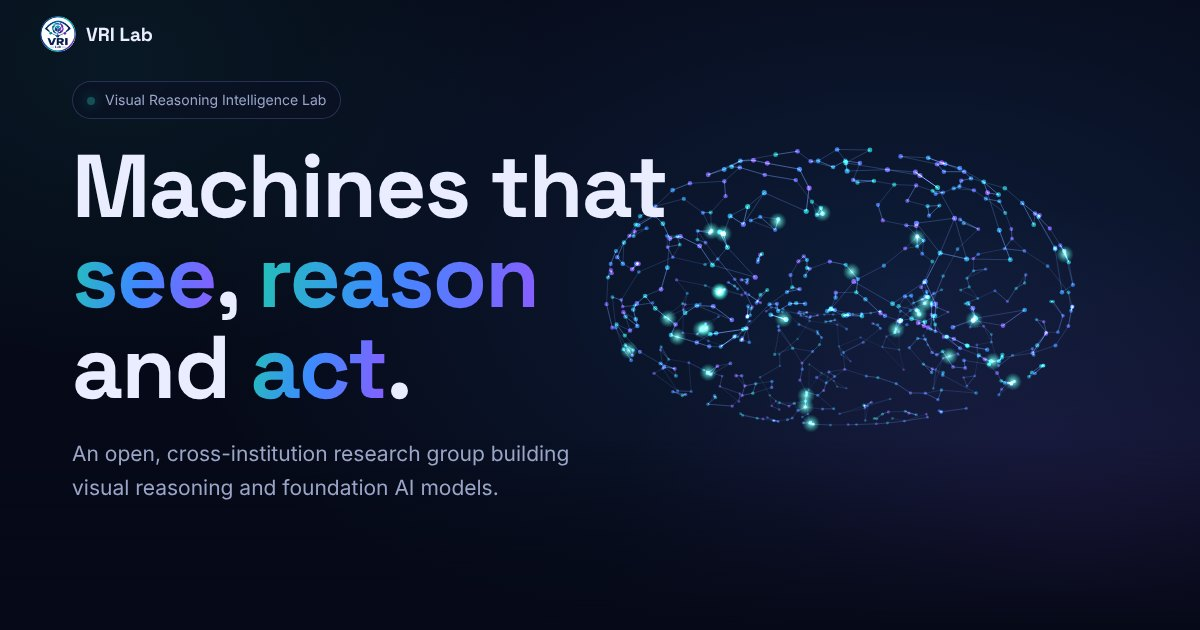
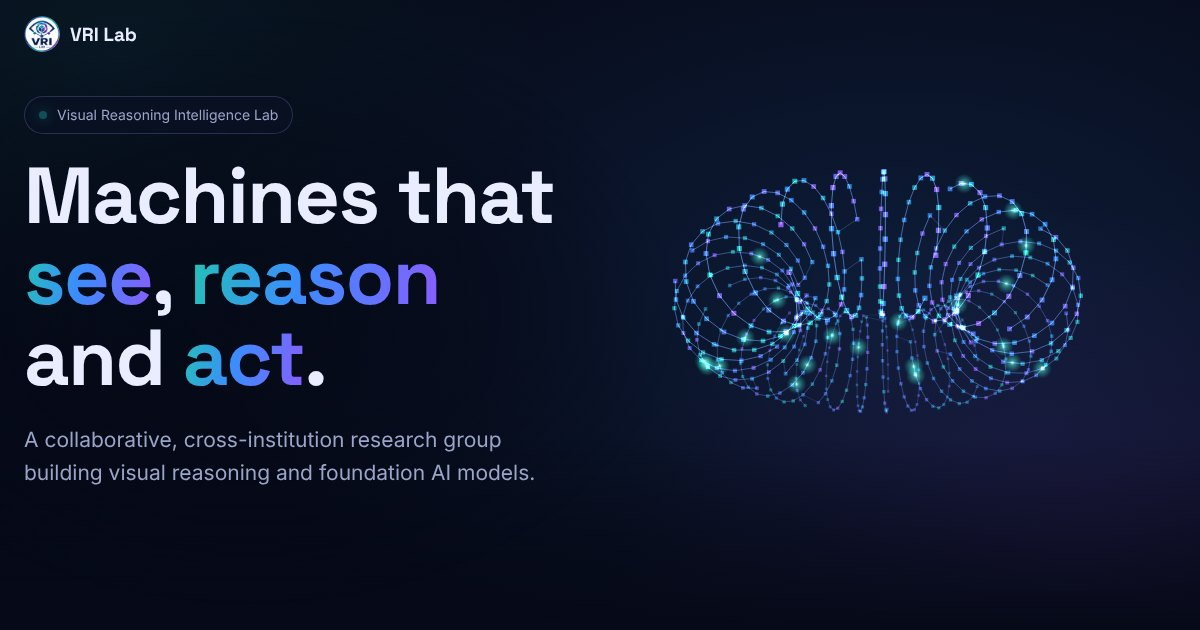
Round 2 fixes: Ali Cheraghian photo, ATLAS/DTO-KD links, seamless torus, carousel fades, tile frame cap, short-phone hero, footer and type polish
Claude-Session: https://claude.ai/code/session_01ChuKEdnKJh8QJsEAQvGBw2

diff --git a/assets/css/style.css b/assets/css/style.css
@@ -91,7 +91,7 @@ h1, h2, h3 { font-family: var(--display); letter-spacing: -0.02em; margin: 0; }
 
 /* ---------------- Hero ---------------- */
 .hero {
-  position: relative; min-height: 100vh; min-height: 100svh;
+  position: relative; min-height: 92vh; min-height: 92svh;
   display: flex; align-items: center;
   padding: 120px var(--gutter) 80px;
   overflow: hidden; isolation: isolate;
@@ -124,8 +124,8 @@ h1, h2, h3 { font-family: var(--display); letter-spacing: -0.02em; margin: 0; }
 .hero-cta { display: flex; flex-wrap: wrap; gap: 12px; }
 .hero-cta.center { justify-content: center; }
 .shape-label {
-  margin: 40px 0 0; font: 500 12px/1 ui-monospace, SFMono-Regular, Menlo, monospace;
-  letter-spacing: .14em; text-transform: uppercase; color: rgba(154,165,200,.6);
+  margin: 40px 0 0; font: 500 12px/1 var(--font);
+  letter-spacing: .14em; text-transform: uppercase; color: rgba(154,165,200,.85);
 }
 .scroll-cue {
   position: absolute; left: 50%; bottom: 28px; transform: translateX(-50%);
@@ -178,7 +178,7 @@ h1, h2, h3 { font-family: var(--display); letter-spacing: -0.02em; margin: 0; }
   background: linear-gradient(to top, rgba(6,10,24,.96) 0%, rgba(6,10,24,.7) 34%, transparent 58%);
 }
 .topic-body { position: absolute; left: 0; right: 0; bottom: 0; padding: 20px 24px 22px; }
-.topic-num { font: 600 13px ui-monospace, Menlo, monospace; letter-spacing: .1em; color: var(--c, var(--teal)); }
+.topic-num { font: 600 12.5px var(--font); letter-spacing: .16em; font-variant-numeric: tabular-nums; color: var(--c, var(--teal)); }
 .topic h3 { font-size: clamp(20px, 1.9vw, 25px); line-height: 1.15; margin: 4px 0 6px; font-weight: 600; }
 .topic:nth-child(1) h3 { font-size: clamp(28px, 3.4vw, 44px); }
 .topic p { margin: 0; color: var(--muted); font-size: 14.5px; max-width: 460px; line-height: 1.45; }
@@ -220,7 +220,7 @@ h1, h2, h3 { font-family: var(--display); letter-spacing: -0.02em; margin: 0; }
 .person .role { margin: 4px 0 0; color: var(--text); font-size: 15px; }
 .person .org { margin: 2px 0 14px; color: var(--muted); font-size: 15px; }
 .person .focus {
-  display: inline-block; font-size: 13px; padding: 5px 11px; border-radius: 999px;
+  display: inline-block; font-size: 13px; padding: 5px 11px; border-radius: 12px;
   background: rgba(34,195,181,.1); color: #7fe6dc; border: 1px solid rgba(34,195,181,.25);
 }
 .person .links { display: flex; gap: 8px; margin-top: 18px; position: relative; }
@@ -244,10 +244,12 @@ h1, h2, h3 { font-family: var(--display); letter-spacing: -0.02em; margin: 0; }
   display: grid; grid-auto-flow: column; grid-auto-columns: minmax(300px, 380px); gap: 18px;
   overflow-x: auto; scroll-snap-type: x mandatory; padding: 4px 0 24px;
   scrollbar-width: thin; scrollbar-color: var(--line-2) transparent;
-  -webkit-mask-image: linear-gradient(90deg, #000 88%, transparent);
-  mask-image: linear-gradient(90deg, #000 88%, transparent);
+  -webkit-mask-image: linear-gradient(90deg, transparent, #000 6%, #000 90%, transparent);
+  mask-image: linear-gradient(90deg, transparent, #000 6%, #000 90%, transparent);
 }
-.work.at-end { -webkit-mask-image: none; mask-image: none; }
+.work.at-start { -webkit-mask-image: linear-gradient(90deg, #000 90%, transparent); mask-image: linear-gradient(90deg, #000 90%, transparent); }
+.work.at-end { -webkit-mask-image: linear-gradient(90deg, transparent, #000 6%); mask-image: linear-gradient(90deg, transparent, #000 6%); }
+.work.at-start.at-end { -webkit-mask-image: none; mask-image: none; }
 .round:disabled { opacity: .35; cursor: default; }
 .round:disabled:hover { background: transparent; }
 .paper {
@@ -271,8 +273,8 @@ h1, h2, h3 { font-family: var(--display); letter-spacing: -0.02em; margin: 0; }
   border: 1px solid rgba(255,255,255,.14);
 }
 .paper .body { padding: 18px 20px 20px; display: flex; flex-direction: column; gap: 10px; flex: 1; }
-.paper .venue { font: 600 12.5px var(--font); letter-spacing: .08em; text-transform: uppercase; color: var(--teal); }
-.paper h3 { font: 600 17px/1.35 var(--font); letter-spacing: 0; margin-top: -4px; }
+.paper .venue { white-space: nowrap; overflow: hidden; text-overflow: ellipsis; font: 600 12.5px var(--font); letter-spacing: .08em; text-transform: uppercase; color: var(--teal); }
+.paper h3 { font: 600 17px/1.35 var(--font); letter-spacing: 0; margin-top: -4px; display: -webkit-box; -webkit-line-clamp: 3; -webkit-box-orient: vertical; overflow: hidden; }
 .paper .authors { font-size: 13.5px; color: var(--muted); margin: 0; }
 .paper .authors b { color: var(--text); font-weight: 600; }
 .paper .plinks { display: flex; flex-wrap: wrap; gap: 8px; margin-top: auto; padding-top: 6px; }
@@ -402,7 +404,8 @@ h1, h2, h3 { font-family: var(--display); letter-spacing: -0.02em; margin: 0; }
   .work { grid-auto-columns: 84%; }
   .scroller-btns { display: none; }
   .join { width: calc(100% - 24px); border-radius: 24px; }
-  .footer { justify-content: center; text-align: center; }
+  .footer { justify-content: center; text-align: center; flex-direction: column; }
+  .footer div, .foot-links { justify-content: center; }
 }
 @media (prefers-reduced-motion: reduce) {
   html { scroll-behavior: auto; }

diff --git a/assets/js/main.js b/assets/js/main.js
@@ -164,6 +164,7 @@
       $("#workPrev").disabled = track.scrollLeft <= 4;
       $("#workNext").disabled = track.scrollLeft >= max;
       track.classList.toggle("at-end", track.scrollLeft >= max);
+      track.classList.toggle("at-start", track.scrollLeft <= 4);
     };
     track.addEventListener("scroll", upd, { passive: true }); window.addEventListener("resize", upd); upd();
   }
@@ -318,12 +319,13 @@
       return p;
     }
     function torus() {
-      var nu = Math.round(Math.sqrt(N * 1.6)), nv = Math.ceil(N / nu), p = [];
-      for (var i = 0; i < nu; i++) for (var j = 0; j < nv; j++) {
-        var u = (i / nu) * Math.PI * 2, v = (j / nv) * Math.PI * 2 + (i % 2) * Math.PI / nv, Rr = 0.95, rr = 0.4;
+      // one continuous helix wound around the torus: even coverage, no seam
+      var p = [], wind = small ? 17 : 23, Rr = 0.95, rr = 0.4;
+      for (var k = 0; k < N; k++) {
+        var u = (k / N) * Math.PI * 2, v = (k / N) * Math.PI * 2 * wind;
         p.push([(Rr + rr * Math.cos(v)) * Math.cos(u), rr * Math.sin(v), (Rr + rr * Math.cos(v)) * Math.sin(u)]);
       }
-      return fit(p);
+      return p;
     }
     function trefoil() {
       var ring = 5, nt = Math.ceil(N / ring), p = [];
@@ -382,9 +384,14 @@
       layout.narrow = narrow;
       if (narrow) {
         // sit in the space between the nav and the headline block
-        var top = inner ? inner.offsetTop : H * 0.5, avail = top - 72;
-        layout.scale = Math.max(48, Math.min(W * 0.26, avail / 3.1));
-        layout.ox = W * 0.5; layout.oy = 72 + Math.max(avail, 150) / 2;
+        var eb = inner && inner.querySelector(".eyebrow");
+        var top = inner ? inner.offsetTop + (eb ? eb.offsetTop : 0) : H * 0.5, avail = top - 72;
+        if (avail < 90) {
+          // short phones: no room above the text, so show it faintly behind instead
+          layout.scale = W * 0.28; layout.ox = W * 0.62; layout.oy = H * 0.36; cv.style.opacity = "0.32";
+        } else {
+          layout.scale = Math.min(W * 0.26, avail / 3.1); layout.ox = W * 0.5; layout.oy = 72 + avail / 2; cv.style.opacity = "";
+        }
       } else {
         var textRight = inner ? inner.getBoundingClientRect().right : W * 0.45;
         var room = W - textRight - 40;
@@ -471,12 +478,12 @@
       var hz = H * 0.3;
       for (var i = -14; i <= 14; i++) { ctx.beginPath(); ctx.moveTo(W / 2 + i * u * 2.2, hz); ctx.lineTo(W / 2 + i * W * 0.14, H); ctx.stroke(); }
       for (var j = 0; j < 14; j++) { var yy = hz + Math.pow(((j + (t * 0.6) % 1) / 14), 2) * (H - hz); ctx.beginPath(); ctx.moveTo(0, yy); ctx.lineTo(W, yy); ctx.stroke(); }
-      var path = function (s) { return [W * 0.4 + Math.sin(s * 0.9) * W * 0.24 + Math.sin(s * 2.1) * W * 0.05, H * 0.7 + Math.cos(s * 0.7) * H * 0.12]; };
+      var path = function (s) { return [W * 0.48 + Math.sin(s * 0.9) * W * 0.19 + Math.sin(s * 2.1) * W * 0.04, H * 0.56 + Math.cos(s * 0.7) * H * 0.12]; };
       ctx.lineWidth = Math.max(2, u * 0.45); ctx.lineCap = "round";
       for (var k = 0; k < 40; k++) { var p0 = path(t - k * 0.04), p1 = path(t - (k + 1) * 0.04); ctx.strokeStyle = "rgba(34,195,181," + (0.9 - k / 44) + ")"; ctx.beginPath(); ctx.moveTo(p0[0], p0[1]); ctx.lineTo(p1[0], p1[1]); ctx.stroke(); }
       var cur = path(t), dir = path(t + 0.05);
       var ang = Math.atan2(dir[1] - cur[1], dir[0] - cur[0]);
-      var stepLen = Math.min(u * 2.2, H * 0.045);
+      var stepLen = Math.min(u * 2.2, H * 0.045, Math.min(W, H) * 0.015);
       for (var r = 0; r < 7; r++) {
         var a = ang + (r - 3) * 0.26, x = cur[0], y = cur[1];
         ctx.setLineDash([u * 0.7, u]); ctx.lineWidth = Math.max(1.4, u * 0.22);
@@ -551,7 +558,7 @@
     mllm: function (ctx, W, H, t) {
       ctx.fillStyle = "#0b1230"; ctx.fillRect(0, 0, W, H);
       var n = 4, cell = H * 0.1, gx = W * 0.06, gy = H * 0.08;
-      var tok = Math.max(10, H * 0.085), seqX0 = W * 0.06, seqY = H * 0.62;
+      var tok = Math.max(17, H * 0.085), seqX0 = W * 0.06, seqY = H * 0.6;
       var cycle = (t * 0.3) % 1.25;
       var lx = W * 0.66, ly = H * 0.08, lw = W * 0.28, lh = H * 0.36;
       var tokPos = [];
@@ -568,7 +575,7 @@
       ctx.globalAlpha = 1;
       // text tokens after the image tokens
       var words = ["what", "is", "it", "doing", "?"];
-      ctx.font = "600 " + Math.round(tok * 0.62) + "px Inter, sans-serif";
+      ctx.font = "600 " + Math.max(10, Math.round(tok * 0.6)) + "px Inter, sans-serif";
       var wx = seqX0 + 8 * (tok + 3) + 8, wy = seqY;
       for (var w = 0; w < words.length; w++) {
         var ww = ctx.measureText(words[w]).width + 10;
@@ -669,7 +676,7 @@
         ctx.save(); ctx.beginPath(); ctx.rect(0, 0, s.w, bh); ctx.clip();
         fn(ctx, s.w, bh, t, cv.dataset.color);
         ctx.restore();
-      }, { still: 4.5 });
+      }, { still: 4.5, fps: 30 });
     });
   }
 

diff --git a/assets/js/data.js b/assets/js/data.js
@@ -92,7 +92,7 @@ window.VRI = {
       org: "Macquarie University",
       place: "Australia",
       focus: "World models · Vision-language models",
-      photo: null,
+      photo: "assets/img/people/ali-cheraghian.jpg",
       links: {
         scholar: "https://scholar.google.com/citations?user=QT0EXIkAAAAJ",
         web: "https://alichr.github.io",
@@ -155,7 +155,7 @@ window.VRI = {
       authors: "H. Dastmalchi, A. Cheraghian, A. An, A. Khamis, L. Petersson",
       img: null,
       seed: 2,
-      links: { page: "https://alichr.github.io" }
+      links: { arXiv: "https://arxiv.org/abs/2610.24783" }
     },
     {
       title: "Topology-Aware Optimal Transport for Source-Free Test-Time Adaptation in Anomaly Segmentation",
@@ -172,7 +172,7 @@ window.VRI = {
       authors: "Z. Hayder, A. Cheraghian, L. Petersson, M. Harandi, R. Hartley",
       img: null,
       seed: 7,
-      links: { page: "https://alichr.github.io" }
+      links: { paper: "https://openreview.net/forum?id=QMItTyQW92" }
     },
     {
       title: "Learning Structurally Consistent Representations for Multi-view Radar Semantic Segmentation",
@@ -220,7 +220,7 @@ window.VRI = {
     {
       title: "Topological Deep Learning: A Review of an Emerging Paradigm",
       short: "TDL Review",
-      venue: "Artificial Intelligence Review 2024",
+      venue: "AI Review 2024",
       authors: "A. Zia, A. Khamis, J. Nichols, U. B. Tayab, Z. Hayder, V. Rolland, E. Stone, L. Petersson",
       img: "assets/img/work/tdl-review.webp",
       links: { paper: "https://link.springer.com/article/10.1007/s10462-024-10710-9", arXiv: "https://arxiv.org/abs/2302.03836" }
@@ -262,7 +262,7 @@ window.VRI = {
   news: [
     { tag: "Nov 2026", text: "VRI Lab launches, bringing together researchers from five institutions in Australia, Bangladesh and Canada." },
     { tag: "WACV 2027", text: "ATLAS accepted, with four VRI members as co-authors." },
-    { tag: "NeurIPS 2026", text: "TopoOT accepted: topology-aware optimal transport for test-time anomaly segmentation." },
+    { tag: "NeurIPS 2026", text: "TopoOT accepted: topology-aware optimal transport for source-free test-time adaptation in anomaly segmentation." },
     { tag: "ICLR 2026", text: "DTO-KD selected for an oral presentation." }
   ],
 

diff --git a/index.html b/index.html
@@ -115,6 +115,15 @@
         </ul>
         <h2>Research topics 2027</h2>
         <p>World models · Language world action models · Multimodal large language models · Unified large language models · Foundation AI models</p>
+        <h2>Selected work</h2>
+        <ul>
+          <li><a href="https://arxiv.org/abs/2610.24783">ATLAS: Learning to Adapt LVLM Attention for Reasoning Video Segmentation</a> (WACV 2027)</li>
+          <li><a href="https://arxiv.org/abs/2601.20333">Topology-Aware Optimal Transport for Source-Free Test-Time Adaptation in Anomaly Segmentation</a> (NeurIPS 2026)</li>
+          <li><a href="https://openreview.net/forum?id=QMItTyQW92">DTO-KD: Dynamic Trade-off Optimization for Effective Knowledge Distillation</a> (ICLR 2026, Oral)</li>
+          <li><a href="https://arxiv.org/abs/2603.10470">Fighting Hallucinations with Counterfactuals</a> (CVPR 2026)</li>
+          <li><a href="https://arxiv.org/abs/2302.03836">Topological Deep Learning: A Review of an Emerging Paradigm</a> (Artificial Intelligence Review 2024)</li>
+        </ul>
+        <p>Member pages: <a href="https://people.csiro.au/P/L/Lars-Petersson">Lars Petersson</a> · <a href="https://www.ali-zia.me">Ali Zia</a> · <a href="https://alichr.github.io">Ali Cheraghian</a> · <a href="https://sites.google.com/site/rshafin">Shafin Rahman</a> · <a href="https://github.com/hamidreza-dastmalchi">Hamidreza Dastmalchi</a> · <a href="https://abdelwahed.github.io">Abdelwahed Khamis</a></p>
         <p>Contact: <a href="mailto:vrilab.research@gmail.com">vrilab.research@gmail.com</a></p>
       </section>
     </noscript>
